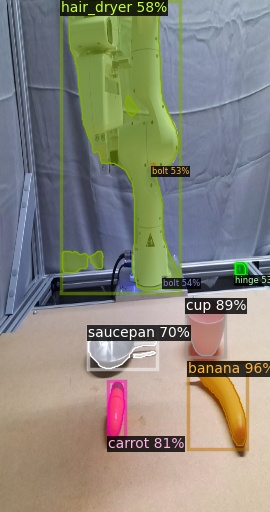
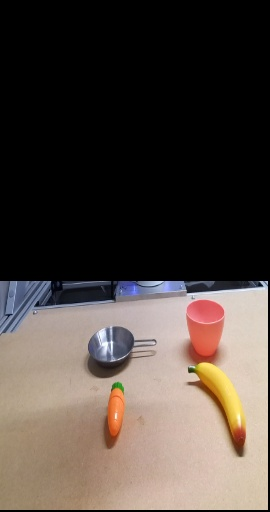
fixed bugs of yolo

diff --git a/run.py b/run.py
@@ -1,15 +1,19 @@
 from pathlib import Path
 import cv2
+
 # import hydra
 import numpy as np
 
 from omegaconf import DictConfig, OmegaConf
+
 # import ultralytics
-from detectors import detic
+# from detectors import detic
 from detectors.obj_detector import Object_Detector
+from detectors.yolo import Yolo_Detrector
 import h5py
 import time
 from tqdm import tqdm
+
 
 def segment_all_imgs(path: Path, detector, outpath, task):
     traj = path.name
@@ -22,12 +26,15 @@ def segment_all_imgs(path: Path, detector, outpath, task):
             masked_img,
         )
 
-def predict_imgs_from_hdf5(path: Path, detector:Object_Detector, outpath, task, file='imgs.hdf5'):
+
+def predict_imgs_from_hdf5(
+    path: Path, detector: Object_Detector, outpath, task, file="imgs.hdf5"
+):
     traj = path.name
-    f = h5py.File(path / file, 'r')
+    f = h5py.File(path / file, "r")
     out_traj = Path(f"{outpath}/{type(detector)}/{task}/{traj}")
     out_traj.mkdir(parents=True, exist_ok=True)
-    
+
     total_time = 0
     num_imgs = 0
     for key in f.keys():
@@ -35,24 +42,27 @@ def predict_imgs_from_hdf5(path: Path, detector:Object_Detector, outpath, task, 
         out_cam.mkdir(exist_ok=True)
         i = 0
         for img_code in tqdm(f[key]):
-            
+
             img = cv2.imdecode(img_code, 1)
-            
+
             t = time.time()
             detector.predict(img)
             total_time += time.time() - t
             mask = detector.get_mask_feature()
             union_mask = detector.joint_feature(mask)
             masked_img = detector.get_masked_img(union_mask)
-            cv2.imwrite(f'{str(out_cam)}/{i}.jpg', masked_img)
-            
-            i+=1
+            cv2.imwrite(f"{str(out_cam)}/{i}.jpg", masked_img)
 
-        num_imgs +=i
-    time_record = out_traj / 'time.txt'
-    with time_record.open('w') as time_file:
-        time_file.write(f'totel time: {total_time}\n img num: {num_imgs}\n avg:{total_time/(num_imgs)}')
+            i += 1
+
+        num_imgs += i
+    time_record = out_traj / "time.txt"
+    with time_record.open("w") as time_file:
+        time_file.write(
+            f"totel time: {total_time}\n img num: {num_imgs}\n avg:{total_time/(num_imgs)}"
+        )
     f.close()
+
 
 # @hydra.main(config_path="configs", config_name="pick_placing_config.yaml")
 # def main(cfg: DictConfig):
@@ -64,20 +74,37 @@ def predict_imgs_from_hdf5(path: Path, detector:Object_Detector, outpath, task, 
 
 
 if __name__ == "__main__":
-    
+
     img = cv2.imread("0.png")
 
-    obj_det = detic.Detectron(to_tensor=False, classes=['banana', 'cup', 'carrot', 'saucepan', 'hair_dryer', 'bolt', 'hinge', 'bolt'])
-    
+    # obj_det = detic.Detectron(
+    #     to_tensor=False,
+    #     classes=[
+    #         "banana",
+    #         "cup",
+    #         "carrot",
+    #         "saucepan",
+    #         "hair_dryer",
+    #         "bolt",
+    #         "hinge",
+    #         "bolt",
+    #     ],
+    # )
+
+    obj_det = Yolo_Detrector(
+        path="/home/alr_admin/david/praktikum/d3il_david/detector_models/yolov8n.pt",
+        to_tensor=False,
+        device="cuda",
+    )
     obj_det.predict(img)
-    # mask = obj_det.get_mask_feature()
-    # union_mask = obj_det.joint_feature(mask)
-    # masked_img = obj_det.get_masked_img(union_mask)
-    output = obj_det.get_visualized_imgs()
+    mask = obj_det.get_mask_feature()
+    union_mask = obj_det.joint_feature(mask)
+    output = obj_det.get_masked_img(union_mask)
+    # output = obj_det.get_masked_img(masked_img)
+    # output = obj_det.get_visualized_imgs()
     # mask = np.expand_dims(mask, -1)
     cv2.imwrite("output0.jpg", output)
-    
-    
+
     # path = Path('/home/i53/student/qwei/alr/data/pickPlacing/2024_08_05-13_22_36')
     # outpath = '/home/i53/student/qwei/alr/prediction_results'
     # detector = detic.Detectron(to_tensor=False)

diff --git a/detectors/yolo.py b/detectors/yolo.py
@@ -1,13 +1,13 @@
 from ultralytics import YOLO
 import torch
 import numpy as np
-from obj_detector import Object_Detector
+from detectors.obj_detector import Object_Detector
 
 
 class Yolo_Detrector(Object_Detector):
     def __init__(self, path, to_tensor, device) -> None:
         super().__init__(path=path, to_tensor=to_tensor, device=device)
-        
+
         self.model = YOLO(path)
         self.to_tensor = to_tensor
         self.device = device
@@ -19,11 +19,12 @@ class Yolo_Detrector(Object_Detector):
     def track(self, img):
         self.img = img
         self.prediction = self.model.track(img, persist=True)
-        
-        
+
     def get_mask_feature(self):
-        p = self.prediction[0]
-        return p.masks.data
+        # no mask, return box instead
+        # p = self.prediction[0]
+        # return p.masks.data
+        return self.get_box_feature()
 
     def get_box_feature(self):
         # igonre top_n, always retrive all
@@ -49,21 +50,10 @@ class Yolo_Detrector(Object_Detector):
         else:
             return box.numpy(box)
 
-    def joint_feature(self, features):
-        if self.to_tensor:
-            joint_mask = torch.zeros(features.shape[1:])
-            for i in range(features.shape[0]):
-                joint_mask = torch.logical_or(joint_mask, features[i, :, :])
-        if not self.to_tensor:
-            joint_mask = np.zeros(features.shape[1:])
-            for i in range(features.shape[0]):
-                joint_mask = np.logical_or(joint_mask, features[i, :, :])
-        return joint_mask
-
-    def get_masked_img(self):
-        return self.prediction[0].plot(
-            labels=False, boxes=False, conf=False, probs=False, color_mode="class"
-        )
+        # def get_masked_img(self):
+        #     return self.prediction[0].plot(
+        #         labels=False, boxes=False, conf=False, probs=False, color_mode="class"
+        #     )
         # if self.to_tensor:
         #     feature = torch.from_numpy(feature)
         # img = np.where(
